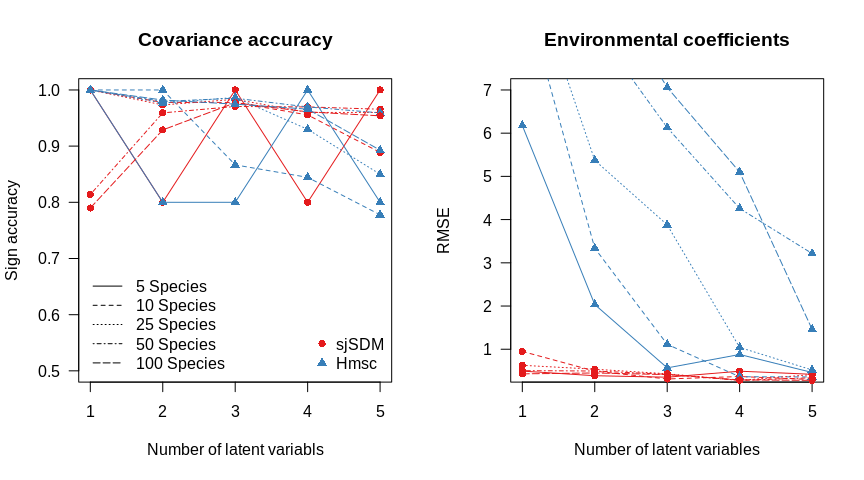
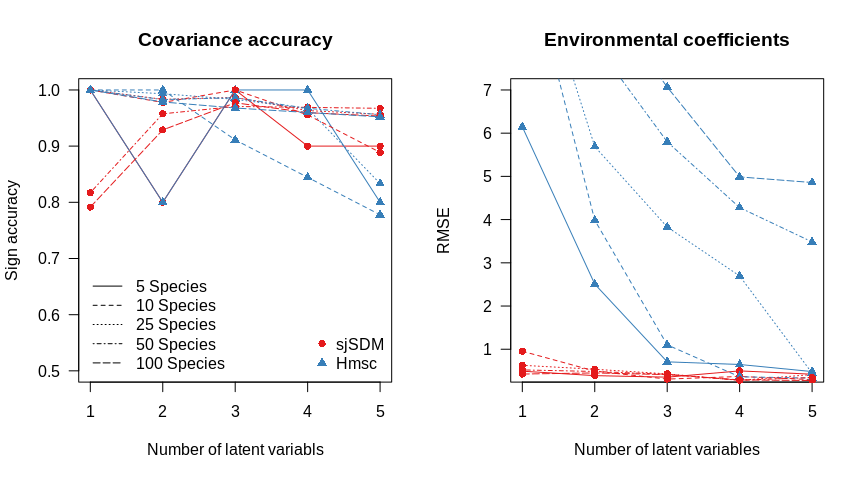
fix

diff --git a/Code/SimulationExperiments/HmscLVMsimulation.md b/Code/SimulationExperiments/HmscLVMsimulation.md
@@ -62,13 +62,10 @@ for(i in 1:5) {
 }
 
 
-cl = snow::makeCluster(5L)
+cl = snow::makeCluster(2L)
 snow::clusterExport(cl, list("data"))
 ev = snow::clusterEvalQ(cl, {
   library(Hmsc)
-  OpenMPController::omp_set_num_threads(6L)
-  RhpcBLASctl::omp_set_num_threads(6L)
-  RhpcBLASctl::blas_set_num_threads(6L)
   })
 
 hmsc_res = 
@@ -79,7 +76,7 @@ hmsc_res =
     rL = HmscRandomLevel(units = studyDesign$sample)
     model = Hmsc(Y = data[[i]]$Y, XData = data.frame(data[[i]]$X), XFormula = ~0 + .,
                  studyDesign = studyDesign, ranLevels = list(sample = rL), distr = "probit")
-    model = sampleMcmc(model, thin = 50, samples = 500, transient = 100,verbose = 5000,
+    model = sampleMcmc(model, thin = 50, samples = 500, transient = 5000,verbose = 5000,
                        nChains = 1L) # 50,000 iterations
     correlation = computeAssociations(model)[[1]]$mean
     beta = Hmsc::getPostEstimate(model, "Beta")$mean
@@ -108,13 +105,10 @@ for(i in 1:5) {
   results_2[i,2] = sqrt(mean(as.vector(coef(sjSDM)[[1]] - data[[i]]$SPW)^2))
 }
 
-cl = snow::makeCluster(5L)
+cl = snow::makeCluster(2L)
 snow::clusterExport(cl, list("data"))
 ev = snow::clusterEvalQ(cl, {
   library(Hmsc)
-  OpenMPController::omp_set_num_threads(6L)
-  RhpcBLASctl::omp_set_num_threads(6L)
-  RhpcBLASctl::blas_set_num_threads(6L)
   })
 hmsc_res = 
   snow::parLapply(cl, 1:5, function(i) {
@@ -124,7 +118,7 @@ hmsc_res =
     rL = HmscRandomLevel(units = studyDesign$sample)
     model = Hmsc(Y = data[[i]]$Y, XData = data.frame(data[[i]]$X), XFormula = ~0 + .,
                  studyDesign = studyDesign, ranLevels = list(sample = rL), distr = "probit")
-    model = sampleMcmc(model, thin = 50, samples = 500, transient = 100,verbose = 5000,
+    model = sampleMcmc(model, thin = 50, samples = 500, transient = 5000,verbose = 5000,
                        nChains = 1L) # 50,000 iterations
     correlation = computeAssociations(model)[[1]]$mean
     beta = Hmsc::getPostEstimate(model, "Beta")$mean
@@ -152,13 +146,10 @@ for(i in 1:5) {
 }
 
 
-cl = snow::makeCluster(5L)
+cl = snow::makeCluster(2L)
 snow::clusterExport(cl, list("data"))
 ev = snow::clusterEvalQ(cl, {
   library(Hmsc)
-  OpenMPController::omp_set_num_threads(6L)
-  RhpcBLASctl::omp_set_num_threads(6L)
-  RhpcBLASctl::blas_set_num_threads(6L)
   })
 
 hmsc_res = 
@@ -169,7 +160,7 @@ hmsc_res =
     rL = HmscRandomLevel(units = studyDesign$sample)
     model = Hmsc(Y = data[[i]]$Y, XData = data.frame(data[[i]]$X), XFormula = ~0 + .,
                  studyDesign = studyDesign, ranLevels = list(sample = rL), distr = "probit")
-    model = sampleMcmc(model, thin = 50, samples = 500, transient = 100,verbose = 5000,
+    model = sampleMcmc(model, thin = 50, samples = 500, transient = 5000,verbose = 5000,
                        nChains = 1L) # 50,000 iterations
     correlation = computeAssociations(model)[[1]]$mean
     beta = Hmsc::getPostEstimate(model, "Beta")$mean
@@ -197,13 +188,10 @@ for(i in 1:5) {
 }
 
 
-cl = snow::makeCluster(5L)
+cl = snow::makeCluster(2L)
 snow::clusterExport(cl, list("data"))
 ev = snow::clusterEvalQ(cl, {
   library(Hmsc)
-  OpenMPController::omp_set_num_threads(6L)
-  RhpcBLASctl::omp_set_num_threads(6L)
-  RhpcBLASctl::blas_set_num_threads(6L)
   })
 
 hmsc_res = 
@@ -214,7 +202,7 @@ hmsc_res =
     rL = HmscRandomLevel(units = studyDesign$sample)
     model = Hmsc(Y = data[[i]]$Y, XData = data.frame(data[[i]]$X), XFormula = ~0 + .,
                  studyDesign = studyDesign, ranLevels = list(sample = rL), distr = "probit")
-    model = sampleMcmc(model, thin = 50, samples = 500, transient = 100,verbose = 5000,
+    model = sampleMcmc(model, thin = 50, samples = 500, transient = 5000,verbose = 5000,
                        nChains = 1L) # 50,000 iterations
     correlation = computeAssociations(model)[[1]]$mean
     beta = Hmsc::getPostEstimate(model, "Beta")$mean
@@ -243,13 +231,10 @@ for(i in 1:5) {
 }
 
 
-cl = snow::makeCluster(5L)
+cl = snow::makeCluster(2L)
 snow::clusterExport(cl, list("data"))
 ev = snow::clusterEvalQ(cl, {
   library(Hmsc)
-  OpenMPController::omp_set_num_threads(6L)
-  RhpcBLASctl::omp_set_num_threads(6L)
-  RhpcBLASctl::blas_set_num_threads(6L)
   })
 
 hmsc_res = 
@@ -260,7 +245,7 @@ hmsc_res =
     rL = HmscRandomLevel(units = studyDesign$sample)
     model = Hmsc(Y = data[[i]]$Y, XData = data.frame(data[[i]]$X), XFormula = ~0 + .,
                  studyDesign = studyDesign, ranLevels = list(sample = rL), distr = "probit")
-    model = sampleMcmc(model, thin = 50, samples = 500, transient = 100,verbose = 5000,
+    model = sampleMcmc(model, thin = 50, samples = 500, transient = 5000,verbose = 5000,
                        nChains = 1L) # 50,000 iterations
     correlation = computeAssociations(model)[[1]]$mean
     beta = Hmsc::getPostEstimate(model, "Beta")$mean
